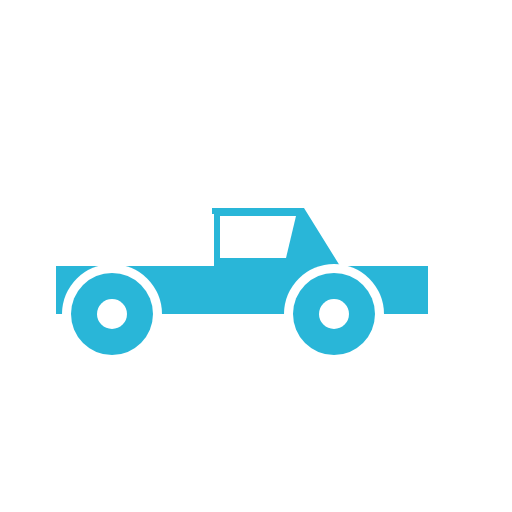
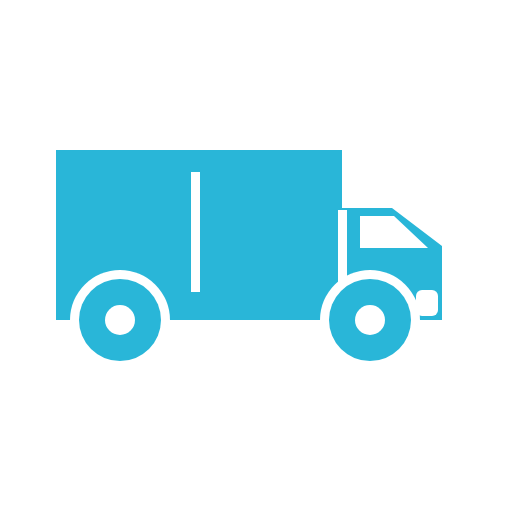
Sol/Sag: kamyonet (kutu kasa) silueti

Changed region(s): [[0.0938, 0.2812, 0.875, 0.7188], [0.1562, 0.6562, 0.1875, 0.6875]]

diff --git a/_iconsrc/arac-sol.html b/_iconsrc/arac-sol.html
@@ -4,21 +4,25 @@
 <svg xmlns="http://www.w3.org/2000/svg" viewBox="0 0 512 512">
   <defs><mask id="m" maskUnits="userSpaceOnUse" x="0" y="0" width="512" height="512">
     <rect width="512" height="512" fill="#000"/>
-    <!-- pickup gövde (beyaz) — ön solda -->
-    <path fill="#fff" d="M84 314 L84 266 L172 266 L208 208 L300 208 L300 266 L456 266 L456 314 Z"/>
-    <!-- cam (boşluk) -->
-    <path fill="#000" d="M216 216 L292 216 L292 258 L226 258 Z"/>
-    <!-- kasa ile kabin ayrımı -->
-    <rect x="298" y="214" width="10" height="52" fill="#000"/>
-    <!-- tekerlek arkları (boşluk) -->
-    <circle cx="178" cy="314" r="50" fill="#000"/>
-    <circle cx="400" cy="314" r="50" fill="#000"/>
+    <!-- kamyonet gövde (beyaz): önde kabin (sol), arkada yüksek kasa -->
+    <path fill="#fff" d="M70 320 L70 246 L120 208 L170 208 L170 150 L456 150 L456 320 Z"/>
+    <!-- kabin camı (boşluk) -->
+    <path fill="#000" d="M84 248 L118 216 L152 216 L152 248 Z"/>
+    <!-- kabin/kasa ayrım çizgisi -->
+    <rect x="165" y="210" width="9" height="110" fill="#000"/>
+    <!-- kasa panel dikiş çizgisi -->
+    <rect x="312" y="172" width="9" height="120" fill="#000"/>
+    <!-- far -->
+    <rect x="74" y="290" width="22" height="26" rx="6" fill="#000"/>
+    <!-- tekerlek arkları -->
+    <circle cx="142" cy="320" r="50" fill="#000"/>
+    <circle cx="392" cy="320" r="50" fill="#000"/>
     <!-- lastikler -->
-    <circle cx="178" cy="314" r="41" fill="#fff"/>
-    <circle cx="400" cy="314" r="41" fill="#fff"/>
+    <circle cx="142" cy="320" r="41" fill="#fff"/>
+    <circle cx="392" cy="320" r="41" fill="#fff"/>
     <!-- jant -->
-    <circle cx="178" cy="314" r="15" fill="#000"/>
-    <circle cx="400" cy="314" r="15" fill="#000"/>
+    <circle cx="142" cy="320" r="15" fill="#000"/>
+    <circle cx="392" cy="320" r="15" fill="#000"/>
   </mask></defs>
   <rect width="512" height="512" fill="#29b6d8" mask="url(#m)"/>
 </svg>

diff --git a/_iconsrc/arac-sag.html b/_iconsrc/arac-sag.html
@@ -4,21 +4,25 @@
 <svg xmlns="http://www.w3.org/2000/svg" viewBox="0 0 512 512">
   <defs><mask id="m" maskUnits="userSpaceOnUse" x="0" y="0" width="512" height="512">
     <rect width="512" height="512" fill="#000"/>
-    <!-- pickup gövde (beyaz) — ön sağda (solun aynası) -->
-    <path fill="#fff" d="M428 314 L428 266 L340 266 L304 208 L212 208 L212 266 L56 266 L56 314 Z"/>
-    <!-- cam -->
-    <path fill="#000" d="M296 216 L220 216 L220 258 L286 258 Z"/>
-    <!-- kasa ile kabin ayrımı -->
-    <rect x="204" y="214" width="10" height="52" fill="#000"/>
+    <!-- kamyonet gövde (beyaz): önde kabin (sağ), arkada yüksek kasa — solun aynası -->
+    <path fill="#fff" d="M442 320 L442 246 L392 208 L342 208 L342 150 L56 150 L56 320 Z"/>
+    <!-- kabin camı -->
+    <path fill="#000" d="M428 248 L394 216 L360 216 L360 248 Z"/>
+    <!-- kabin/kasa ayrım çizgisi -->
+    <rect x="338" y="210" width="9" height="110" fill="#000"/>
+    <!-- kasa panel dikiş çizgisi -->
+    <rect x="191" y="172" width="9" height="120" fill="#000"/>
+    <!-- far -->
+    <rect x="416" y="290" width="22" height="26" rx="6" fill="#000"/>
     <!-- tekerlek arkları -->
-    <circle cx="334" cy="314" r="50" fill="#000"/>
-    <circle cx="112" cy="314" r="50" fill="#000"/>
+    <circle cx="370" cy="320" r="50" fill="#000"/>
+    <circle cx="120" cy="320" r="50" fill="#000"/>
     <!-- lastikler -->
-    <circle cx="334" cy="314" r="41" fill="#fff"/>
-    <circle cx="112" cy="314" r="41" fill="#fff"/>
+    <circle cx="370" cy="320" r="41" fill="#fff"/>
+    <circle cx="120" cy="320" r="41" fill="#fff"/>
     <!-- jant -->
-    <circle cx="334" cy="314" r="15" fill="#000"/>
-    <circle cx="112" cy="314" r="15" fill="#000"/>
+    <circle cx="370" cy="320" r="15" fill="#000"/>
+    <circle cx="120" cy="320" r="15" fill="#000"/>
   </mask></defs>
   <rect width="512" height="512" fill="#29b6d8" mask="url(#m)"/>
 </svg>
